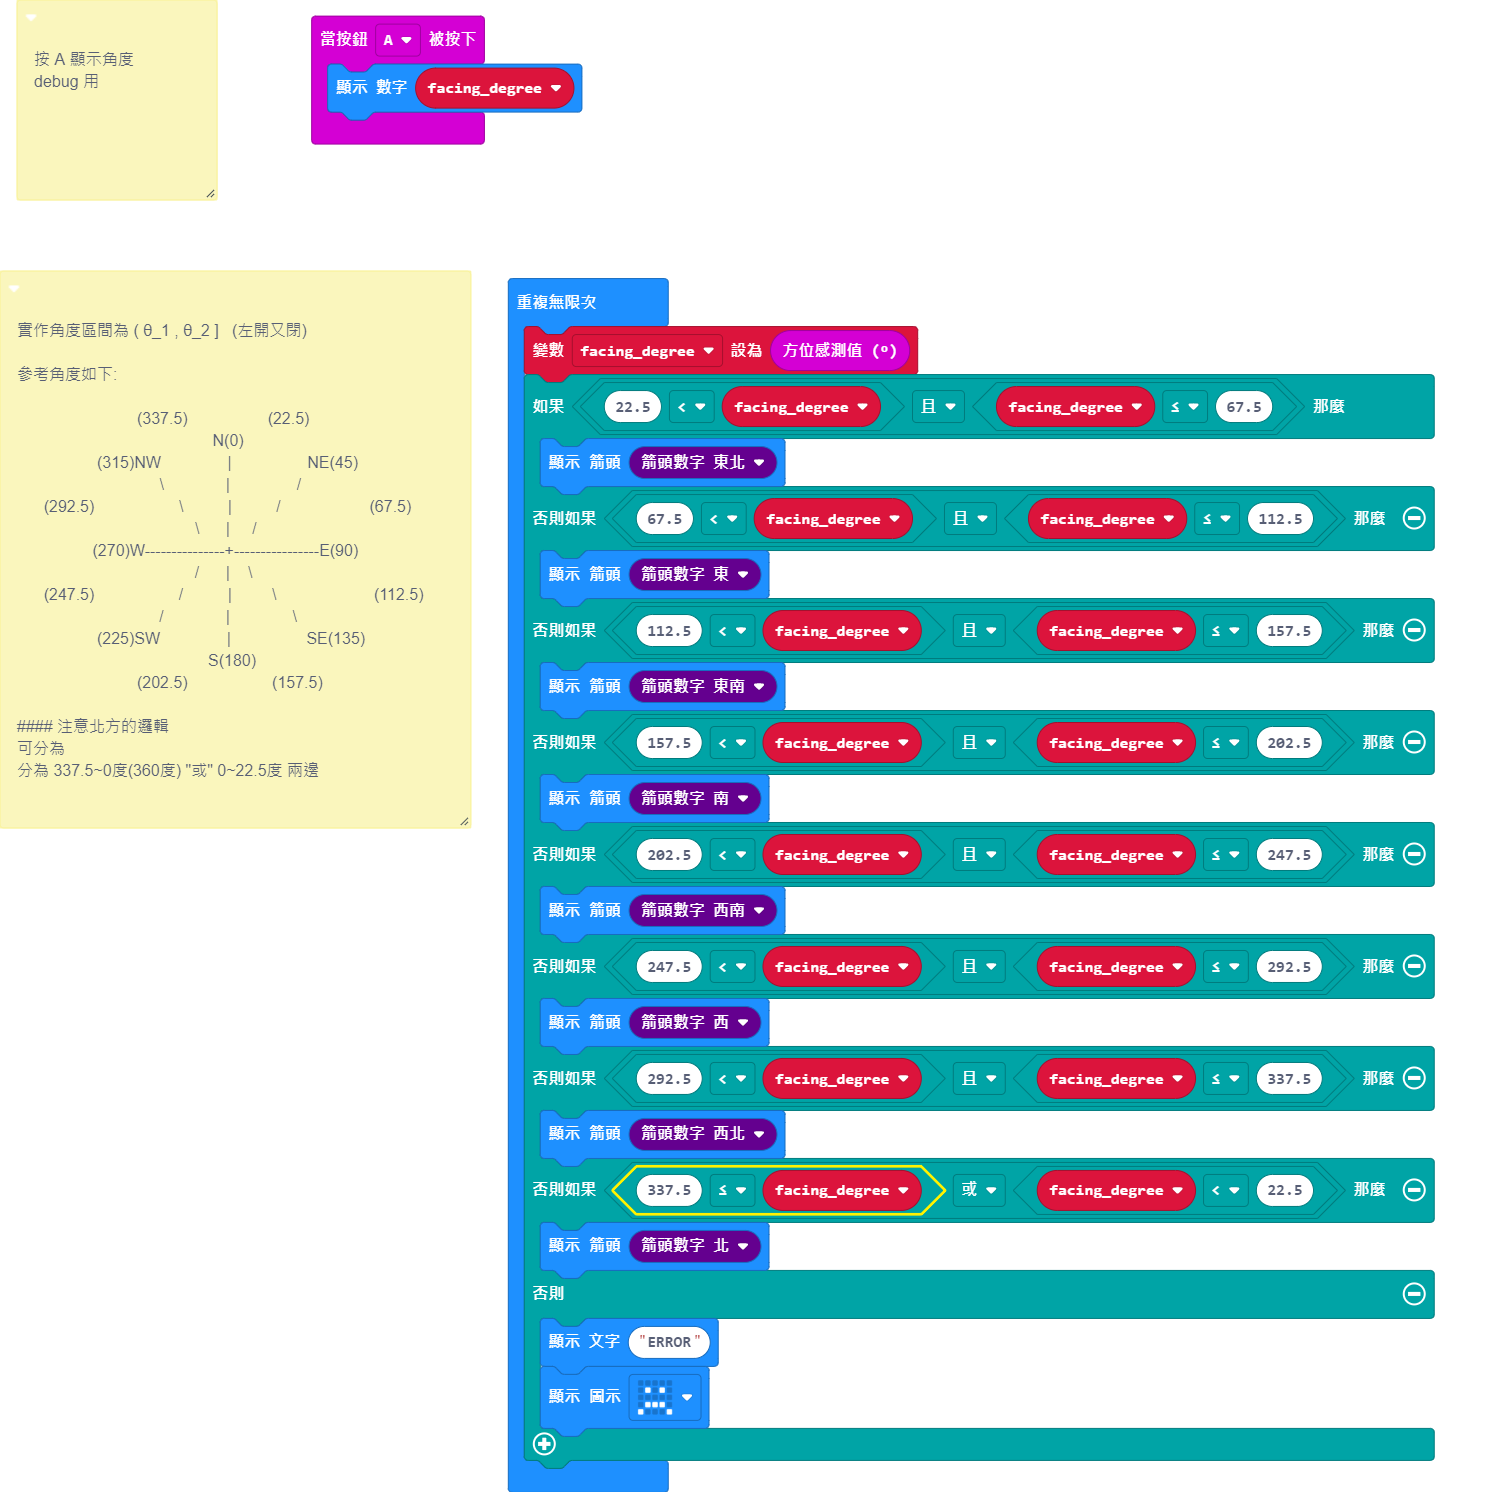
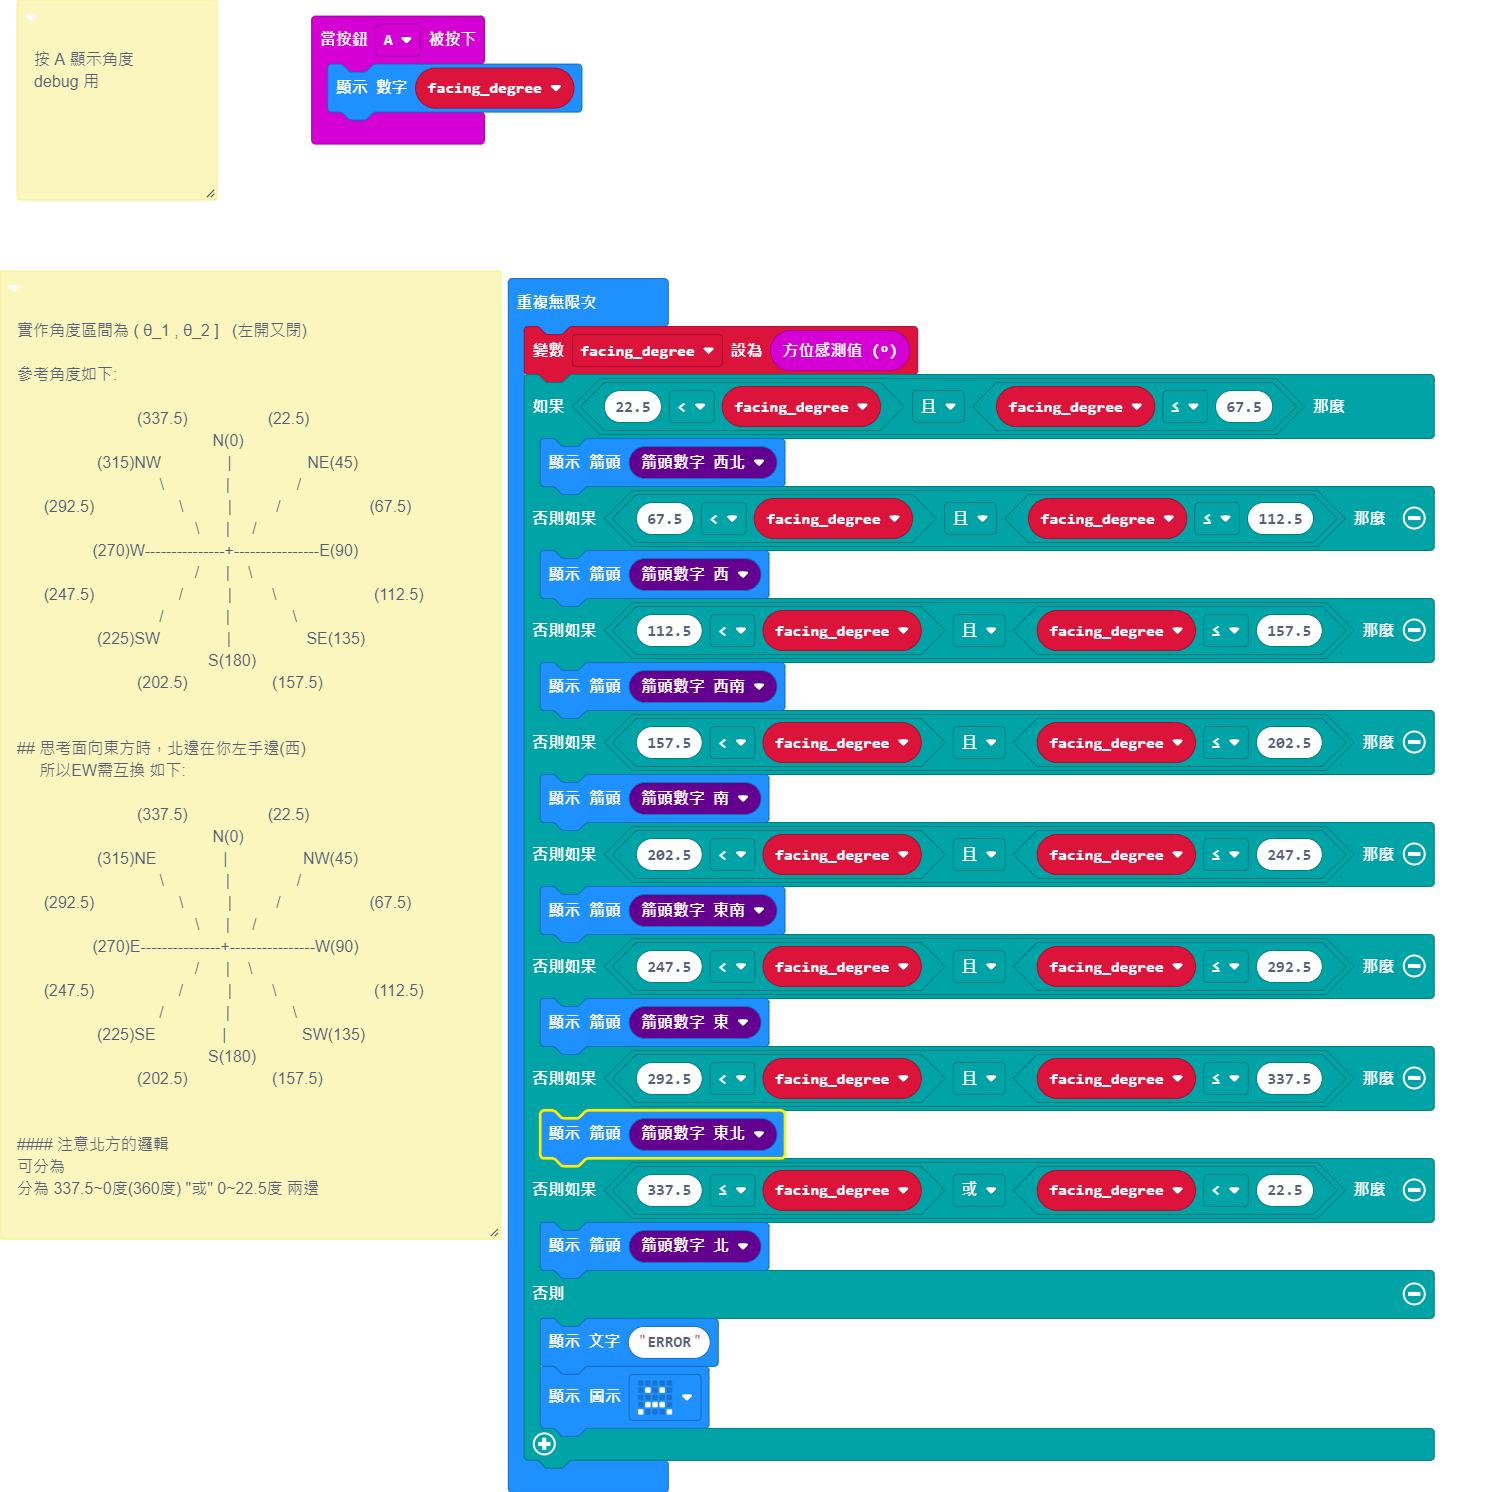
fix some microbit lib issue

Changed region(s): [[0.0, 0.185, 0.3405, 0.8324], [0.0, 0.4625, 0.2167, 0.5241], [0.4024, 0.7399, 0.5262, 0.8016]]

diff --git a/main.ts b/main.ts
@@ -4,6 +4,9 @@ let facing_degree = 0
  * 
  * debug 用
  */
+input.onButtonPressed(Button.A, function () {
+    basic.showNumber(facing_degree)
+})
 /**
  * 實作角度區間為 ( θ_1 , θ_2 ]   (左開又閉)
  * 
@@ -35,31 +38,58 @@ let facing_degree = 0
  * 
  *                            (202.5)                   (157.5)
  * 
+ * ## 思考面向東方時，北邊在你左手邊(西)
+ * 
+ *      所以EW需互換 如下:
+ * 
+ *                            (337.5)                  (22.5)
+ * 
+ *                                             N(0)
+ * 
+ *                   (315)NE               |                 NW(45)
+ * 
+ *                                 \              |               /
+ * 
+ *       (292.5)                   \          |          /                    (67.5) 
+ * 
+ *                                         \      |     /
+ * 
+ *                  (270)E---------------+----------------W(90)
+ * 
+ *                                         /      |    \
+ * 
+ *       (247.5)                   /          |         \                      (112.5)
+ * 
+ *                                 /              |              \
+ * 
+ *                   (225)SE               |                 SW(135)
+ * 
+ *                                            S(180)
+ * 
+ *                            (202.5)                   (157.5)
+ * 
  * #### 注意北方的邏輯
  * 
  * 可分為
  * 
  * 分為 337.5~0度(360度) "或" 0~22.5度 兩邊
  */
-input.onButtonPressed(Button.A, function () {
-    basic.showNumber(facing_degree)
-})
 basic.forever(function () {
     facing_degree = input.compassHeading()
     if (22.5 < facing_degree && facing_degree <= 67.5) {
-        basic.showArrow(ArrowNames.NorthEast)
+        basic.showArrow(ArrowNames.NorthWest)
     } else if (67.5 < facing_degree && facing_degree <= 112.5) {
-        basic.showArrow(ArrowNames.East)
+        basic.showArrow(ArrowNames.West)
     } else if (112.5 < facing_degree && facing_degree <= 157.5) {
-        basic.showArrow(ArrowNames.SouthEast)
+        basic.showArrow(ArrowNames.SouthWest)
     } else if (157.5 < facing_degree && facing_degree <= 202.5) {
         basic.showArrow(ArrowNames.South)
     } else if (202.5 < facing_degree && facing_degree <= 247.5) {
-        basic.showArrow(ArrowNames.SouthWest)
+        basic.showArrow(ArrowNames.SouthEast)
     } else if (247.5 < facing_degree && facing_degree <= 292.5) {
-        basic.showArrow(ArrowNames.West)
+        basic.showArrow(ArrowNames.East)
     } else if (292.5 < facing_degree && facing_degree <= 337.5) {
-        basic.showArrow(ArrowNames.NorthWest)
+        basic.showArrow(ArrowNames.NorthEast)
     } else if (337.5 <= facing_degree || facing_degree < 22.5) {
         basic.showArrow(ArrowNames.North)
     } else {
